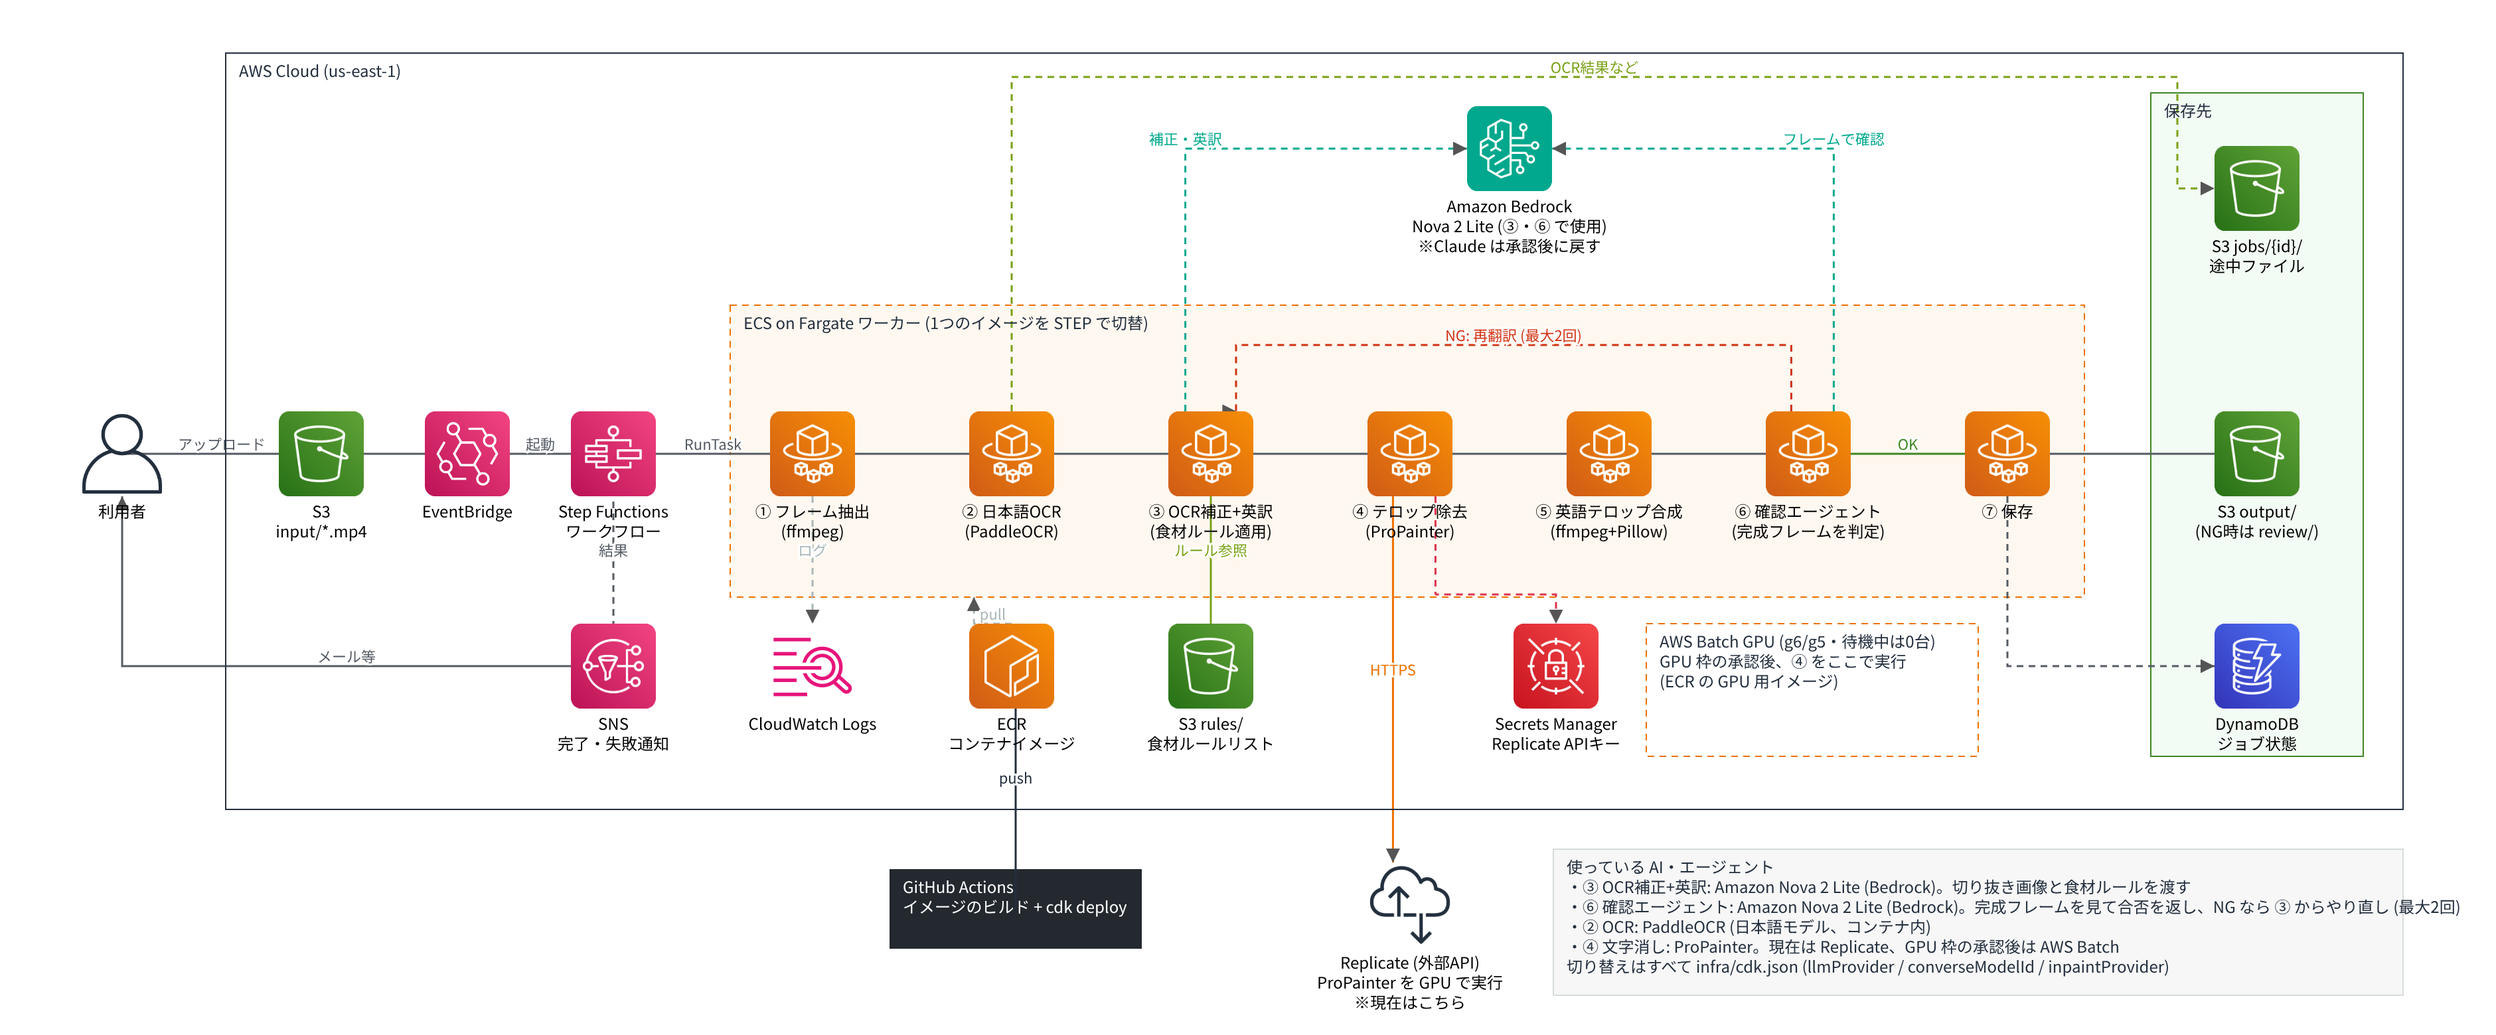
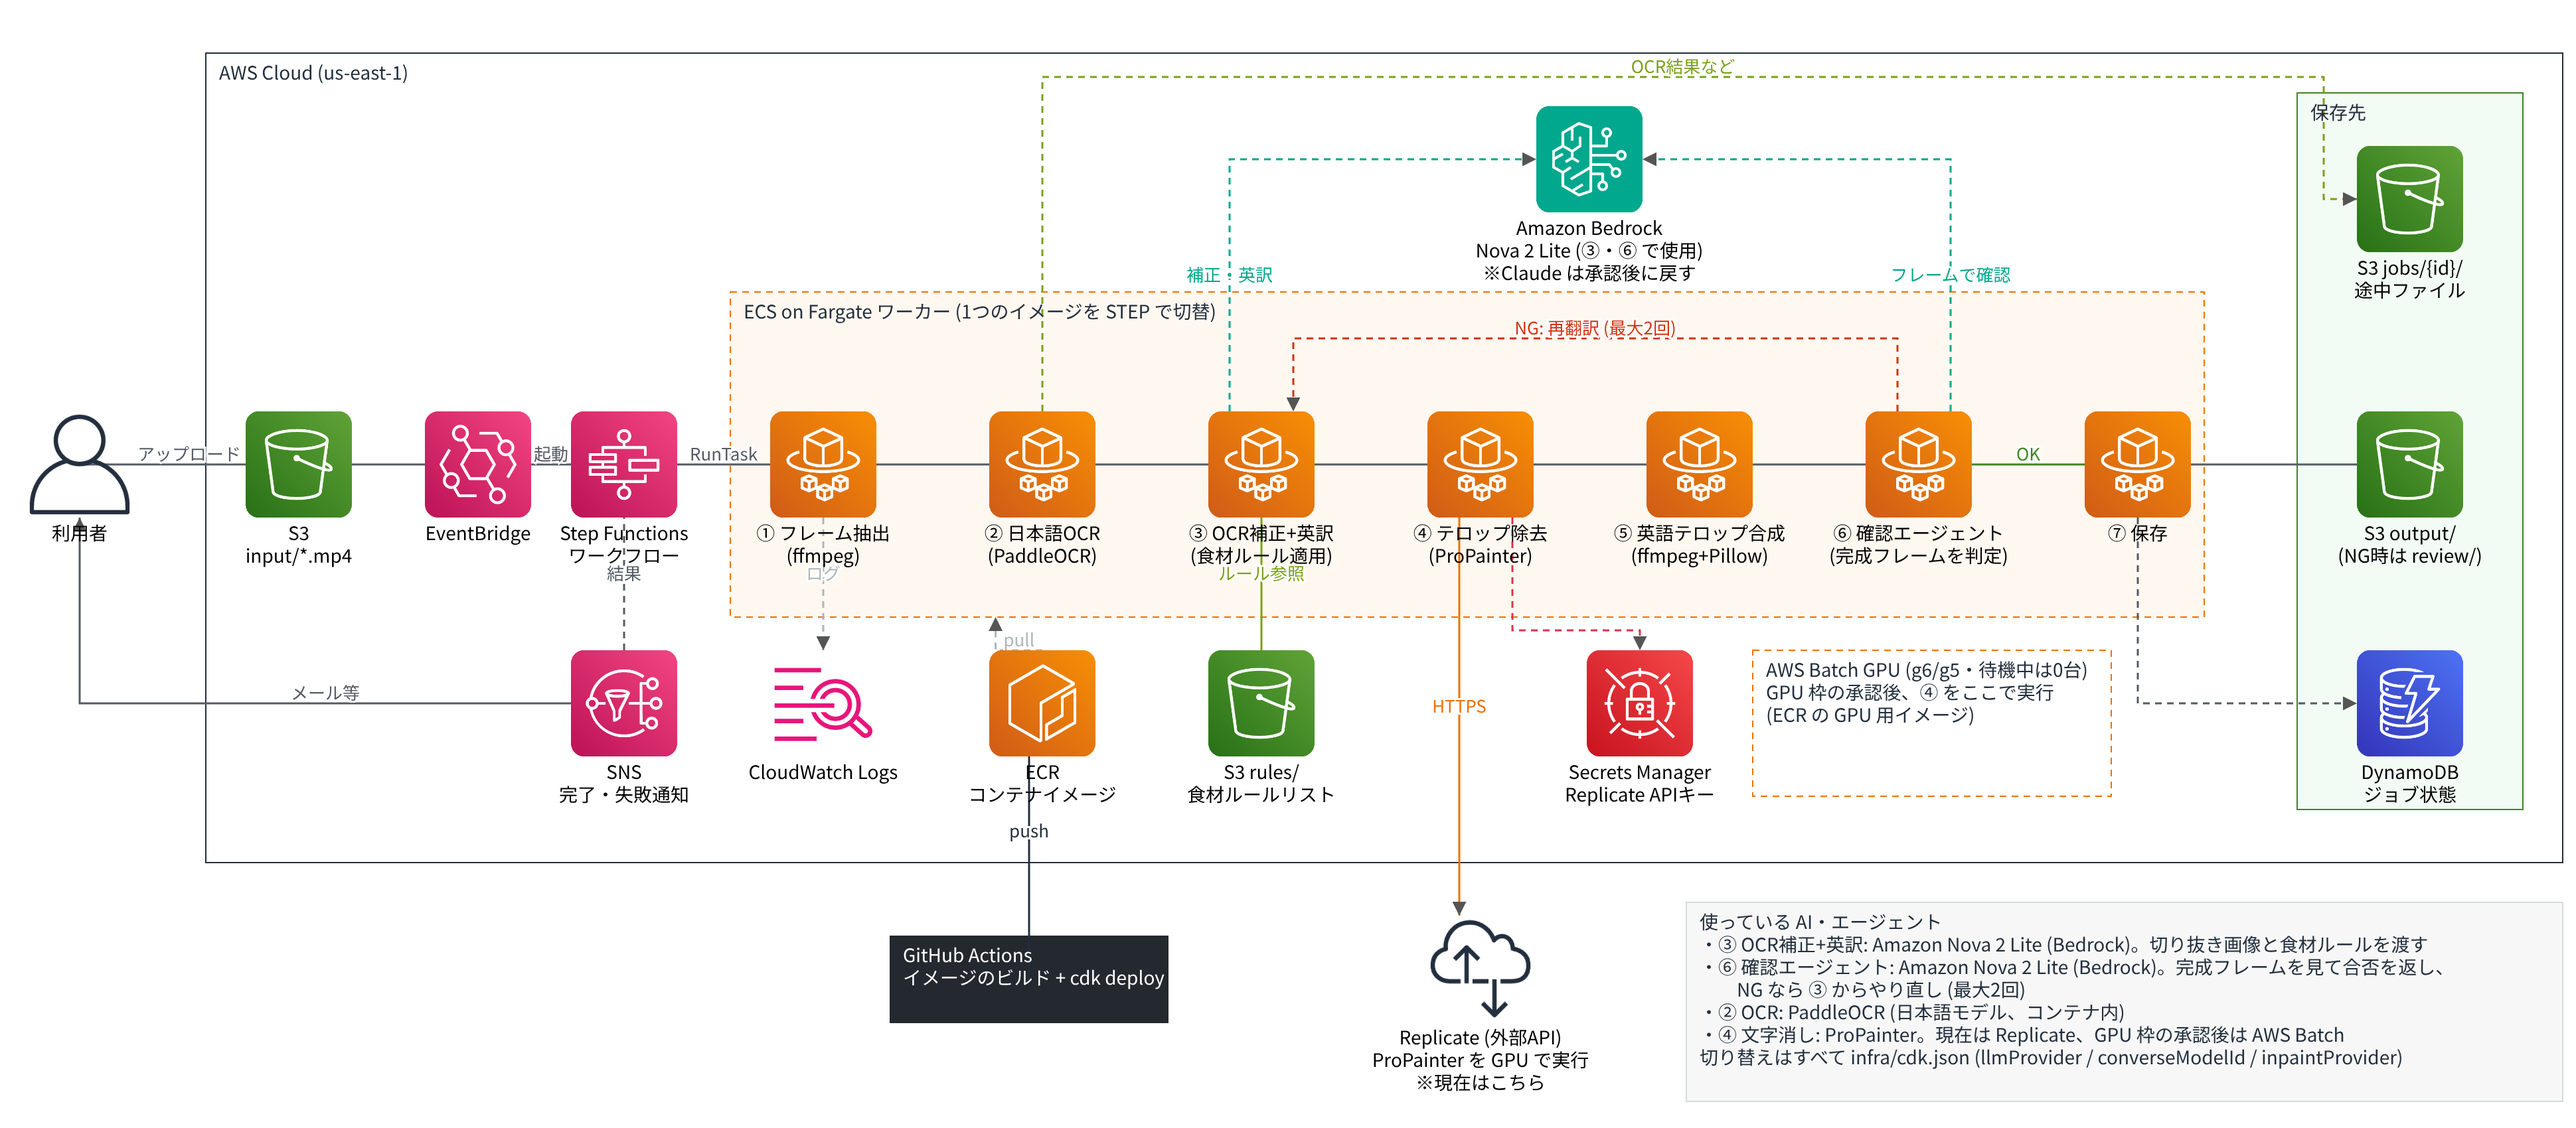
構成図のアイコンを 64→80px、文字を 12→14px に拡大
Claude-Session: https://claude.ai/code/session_01PP6npJEEqDkh7a12NZBn48

diff --git a/docs/architecture/make_drawio.py b/docs/architecture/make_drawio.py
@@ -8,6 +8,8 @@ from pathlib import Path
 from xml.sax.saxutils import escape
 
 OUT = Path(__file__).with_name("architecture.drawio")
+S = 80   # アイコンの大きさ
+FS = 14  # 文字の大きさ
 
 # AWS カテゴリ色 (アイコンの背景色)
 COMPUTE, STORAGE, INTEG, ML, SEC, DB, MGMT = "#ED7100", "#7AA116", "#E7157B", "#01A88D", "#DD344C", "#C925D1", "#E7157B"
@@ -26,12 +28,12 @@ def icon(label: str, res: str, color: str, x: int, y: int, parent: str = "1") ->
     i = nid()
     style = (
         "sketch=0;outlineConnect=0;fontColor=#232F3E;fillColor=" + color + ";strokeColor=#ffffff;"
-        "dashed=0;verticalLabelPosition=bottom;verticalAlign=top;align=center;html=1;fontSize=12;"
-        f"fontStyle=0;aspect=fixed;shape=mxgraph.aws4.resourceIcon;resIcon=mxgraph.aws4.{res};"
+        "dashed=0;verticalLabelPosition=bottom;verticalAlign=top;align=center;html=1;"
+        f"fontSize={FS};fontStyle=0;aspect=fixed;shape=mxgraph.aws4.resourceIcon;resIcon=mxgraph.aws4.{res};"
     )
     cells.append(
         f'<mxCell id="{i}" value="{escape(label)}" style="{style}" vertex="1" parent="{parent}">'
-        f'<mxGeometry x="{x}" y="{y}" width="64" height="64" as="geometry"/></mxCell>'
+        f'<mxGeometry x="{x}" y="{y}" width="{S}" height="{S}" as="geometry"/></mxCell>'
     )
     return i
 
@@ -40,12 +42,13 @@ def plain_icon(label: str, shape: str, x: int, y: int) -> str:
     i = nid()
     style = (
         "sketch=0;outlineConnect=0;fontColor=#232F3E;fillColor=#232F3E;strokeColor=none;dashed=0;"
-        "verticalLabelPosition=bottom;verticalAlign=top;align=center;html=1;fontSize=12;aspect=fixed;"
+        "verticalLabelPosition=bottom;verticalAlign=top;align=center;html=1;"
+        f"fontSize={FS};aspect=fixed;"
         f"shape=mxgraph.aws4.{shape};"
     )
     cells.append(
         f'<mxCell id="{i}" value="{escape(label)}" style="{style}" vertex="1" parent="1">'
-        f'<mxGeometry x="{x}" y="{y}" width="64" height="64" as="geometry"/></mxCell>'
+        f'<mxGeometry x="{x}" y="{y}" width="{S}" height="{S}" as="geometry"/></mxCell>'
     )
     return i
 
@@ -66,7 +69,7 @@ def edge(src: str, dst: str, label: str = "", color: str = "#545B64", dashed: bo
     i = nid()
     style = (
         f"edgeStyle=orthogonalEdgeStyle;rounded=1;html=1;endArrow=block;endFill=1;strokeColor={color};"
-        f"fontSize=11;fontColor={color};labelBackgroundColor=#FFFFFF;" + ("dashed=1;" if dashed else "")
+        f"fontSize={FS - 1};fontColor={color};labelBackgroundColor=#FFFFFF;" + ("dashed=1;" if dashed else "")
     )
     if exit:
         style += f"exitX={exit[0]};exitY={exit[1]};exitDx=0;exitDy=0;"
@@ -82,16 +85,16 @@ def edge(src: str, dst: str, label: str = "", color: str = "#545B64", dashed: bo
 
 
 AWS_CLOUD = (
-    "points=[];outlineConnect=0;gradientColor=none;html=1;whiteSpace=wrap;fontSize=12;fontStyle=0;"
+    "points=[];outlineConnect=0;gradientColor=none;html=1;whiteSpace=wrap;fontStyle=0;"
     "container=1;pointerEvents=0;collapsible=0;recursiveResize=0;shape=mxgraph.aws4.group;"
     "grIcon=mxgraph.aws4.group_aws_cloud_alt;strokeColor=#232F3E;fillColor=none;verticalAlign=top;"
-    "align=left;spacingLeft=30;fontColor=#232F3E;dashed=0;"
+    "align=left;spacingLeft=30;fontColor=#232F3E;dashed=0;fontSize=14;"
 )
-BOX = "rounded=1;arcSize=3;html=1;fillColor={f};strokeColor={s};verticalAlign=top;align=left;spacingLeft=10;fontSize=12;dashed={d};"
+BOX = "rounded=1;arcSize=3;html=1;fillColor={f};strokeColor={s};verticalAlign=top;align=left;spacingLeft=10;fontSize=14;dashed={d};"
 
 def note(text: str, x: int, y: int, w: int, h: int) -> str:
     i = nid()
-    style = "text;html=1;whiteSpace=wrap;fillColor=#F7F7F7;strokeColor=#D5DBDB;spacing=8;align=left;verticalAlign=top;fontSize=12;fontColor=#232F3E;"
+    style = "text;html=1;whiteSpace=wrap;fillColor=#F7F7F7;strokeColor=#D5DBDB;spacing=8;align=left;verticalAlign=top;fontSize=14;fontColor=#232F3E;"
     cells.append(
         f'<mxCell id="{i}" value="{escape(text)}" style="{style}" vertex="1" parent="1">'
         f'<mxGeometry x="{x}" y="{y}" width="{w}" height="{h}" as="geometry"/></mxCell>'
@@ -102,20 +105,20 @@ def note(text: str, x: int, y: int, w: int, h: int) -> str:
 # ---- レイアウト ----
 # 工程①〜⑦ を左から右へ 1 列に並べ、AI (Bedrock) と再翻訳ループは上、つなぎ先 (API・ルール・ログ) は下に置く。
 ROW = 230                      # 工程アイコンの y
-X = {n: 560 + 150 * (n - 1) for n in range(1, 8)}  # 工程 n のアイコンの x
+X = {n: 560 + 165 * (n - 1) for n in range(1, 8)}  # 工程 n のアイコンの x
 
-group("AWS Cloud (us-east-1)", 150, -40, 1640, 570, AWS_CLOUD)
-fargate = group("ECS on Fargate ワーカー (1つのイメージを STEP で切替)", 530, 150, 1020, 220, BOX.format(f="#FFF8F0", s="#ED7100", d=1))
-group("AWS Batch GPU (g6/g5・待機中は0台)\nGPU 枠の承認後、④ をここで実行\n(ECR の GPU 用イメージ)", 1220, 390, 250, 100,
+group("AWS Cloud (us-east-1)", 135, -40, 1775, 610, AWS_CLOUD)
+fargate = group("ECS on Fargate ワーカー (1つのイメージを STEP で切替)", 530, 140, 1110, 245, BOX.format(f="#FFF8F0", s="#ED7100", d=1))
+group("AWS Batch GPU (g6/g5・待機中は0台)\nGPU 枠の承認後、④ をここで実行\n(ECR の GPU 用イメージ)", 1300, 410, 270, 110,
       BOX.format(f="#FFFFFF", s="#ED7100", d=1))
-group("保存先", 1600, -10, 160, 500, BOX.format(f="#F2FBF4", s="#3F8624", d=0))
+group("保存先", 1710, -10, 170, 540, BOX.format(f="#F2FBF4", s="#3F8624", d=0))
 
 # ---- 入口 ----
-user = plain_icon("利用者", "user", 40, ROW)
-s3_in = icon("S3\ninput/*.mp4", "simple_storage_service", STORAGE, 190, ROW)
+user = plain_icon("利用者", "user", 0, ROW)
+s3_in = icon("S3\ninput/*.mp4", "simple_storage_service", STORAGE, 165, ROW)
 eb = icon("EventBridge", "eventbridge", INTEG, 300, ROW)
 sfn = icon("Step Functions\nワークフロー", "step_functions", INTEG, 410, ROW)
-sns = icon("SNS\n完了・失敗通知", "sns", INTEG, 410, 390)
+sns = icon("SNS\n完了・失敗通知", "sns", INTEG, 410, 410)
 
 # ---- 工程 ----
 s1 = icon("① フレーム抽出\n(ffmpeg)", "fargate", COMPUTE, X[1], ROW)
@@ -127,36 +130,36 @@ s6 = icon("⑥ 確認エージェント\n(完成フレームを判定)", "fargat
 s7 = icon("⑦ 保存", "fargate", COMPUTE, X[7], ROW)
 
 # ---- 上: AI ----
-bedrock = icon("Amazon Bedrock\nNova 2 Lite (③・⑥ で使用)\n※Claude は承認後に戻す", "bedrock", ML, 1085, 0)
+bedrock = icon("Amazon Bedrock\nNova 2 Lite (③・⑥ で使用)\n※Claude は承認後に戻す", "bedrock", ML, (X[3] + X[6]) // 2, 0)
 
 # ---- 下: つなぎ先 ----
-logs = icon("CloudWatch Logs", "cloudwatch_2", MGMT, 560, 390)
-ecr = icon("ECR\nコンテナイメージ", "ecr", COMPUTE, 710, 390)
-rules = icon("S3 rules/\n食材ルールリスト", "simple_storage_service", STORAGE, X[3], 390)
-secrets = icon("Secrets Manager\nReplicate APIキー", "secrets_manager", SEC, X[4] + 110, 390)
+logs = icon("CloudWatch Logs", "cloudwatch_2", MGMT, 560, 410)
+ecr = icon("ECR\nコンテナイメージ", "ecr", COMPUTE, 725, 410)
+rules = icon("S3 rules/\n食材ルールリスト", "simple_storage_service", STORAGE, X[3], 410)
+secrets = icon("Secrets Manager\nReplicate APIキー", "secrets_manager", SEC, X[4] + 120, 410)
 
 # ---- 右: 保存先 ----
-s3_jobs = icon("S3 jobs/{id}/\n途中ファイル", "simple_storage_service", STORAGE, 1648, 30)
-s3_out = icon("S3 output/\n(NG時は review/)", "simple_storage_service", STORAGE, 1648, ROW)
-ddb = icon("DynamoDB\nジョブ状態", "dynamodb", DB, 1648, 390)
+s3_jobs = icon("S3 jobs/{id}/\n途中ファイル", "simple_storage_service", STORAGE, 1755, 30)
+s3_out = icon("S3 output/\n(NG時は review/)", "simple_storage_service", STORAGE, 1755, ROW)
+ddb = icon("DynamoDB\nジョブ状態", "dynamodb", DB, 1755, 410)
 
 # ---- AWS の外 ----
-replicate = plain_icon("Replicate (外部API)\nProPainter を GPU で実行\n※現在はこちら", "internet_alt1", X[4], 570)
-gha = group("GitHub Actions\nイメージのビルド + cdk deploy", 650, 575, 190, 60,
-            "rounded=1;html=1;whiteSpace=wrap;fillColor=#24292F;strokeColor=none;fontColor=#FFFFFF;fontSize=12;align=center;verticalAlign=middle;")
+replicate = plain_icon("Replicate (外部API)\nProPainter を GPU で実行\n※現在はこちら", "internet_alt1", X[4], 610)
+gha = group("GitHub Actions\nイメージのビルド + cdk deploy", 650, 625, 210, 66,
+            "rounded=1;html=1;whiteSpace=wrap;fillColor=#24292F;strokeColor=none;fontColor=#FFFFFF;fontSize=14;align=center;verticalAlign=middle;")
 
 note(
     "<b>使っている AI・エージェント</b><br>"
     "・③ OCR補正+英訳: Amazon Nova 2 Lite (Bedrock)。切り抜き画像と食材ルールを渡す<br>"
-    "・⑥ 確認エージェント: Amazon Nova 2 Lite (Bedrock)。完成フレームを見て合否を返し、NG なら ③ からやり直し (最大2回)<br>"
+    "・⑥ 確認エージェント: Amazon Nova 2 Lite (Bedrock)。完成フレームを見て合否を返し、<br>　　NG なら ③ からやり直し (最大2回)<br>"
     "・② OCR: PaddleOCR (日本語モデル、コンテナ内)<br>"
     "・④ 文字消し: ProPainter。現在は Replicate、GPU 枠の承認後は AWS Batch<br>"
     "切り替えはすべて infra/cdk.json (llmProvider / converseModelId / inpaintProvider)",
-    1150, 560, 640, 110,
+    1250, 600, 660, 150,
 )
 
 # ---- 線 ----
-cy = ROW + 32  # アイコン中央の高さ
+cy = ROW + S // 2  # アイコン中央の高さ
 edge(user, s3_in, "アップロード")
 edge(s3_in, eb)
 edge(eb, sfn, "起動")
@@ -169,25 +172,25 @@ edge(s5, s6)
 edge(s6, s7, "OK", color="#3F8624")
 # 再翻訳ループ (上を通す)
 edge(s6, s3, "NG: 再翻訳 (最大2回)", color="#D13212", dashed=True,
-     exit=(0.3, 0), entry=(0.8, 0), points=[(X[6] + 19, 180), (X[3] + 51, 180)])
+     exit=(0.3, 0), entry=(0.8, 0), points=[(X[6] + S * 3 // 10, 175), (X[3] + S * 8 // 10, 175)])
 # AI 呼び出し (上の Bedrock へ)
 edge(s3, bedrock, "補正・英訳", color="#01A88D", dashed=True, exit=(0.2, 0), entry=(0, 0.5),
-     points=[(X[3] + 13, 32)])
+     points=[(X[3] + S // 5, S // 2)])
 edge(s6, bedrock, "フレームで確認", color="#01A88D", dashed=True, exit=(0.8, 0), entry=(1, 0.5),
-     points=[(X[6] + 51, 32)])
+     points=[(X[6] + S * 4 // 5, S // 2)])
 # 下のつなぎ先
 edge(rules, s3, "ルール参照", color="#7AA116")
 edge(s4, replicate, "HTTPS", color="#ED7100", exit=(0.3, 1), entry=(0.3, 0))
 edge(s4, secrets, color="#DD344C", dashed=True, exit=(0.8, 1), entry=(0.5, 0),
-     points=[(X[4] + 51, 368), (X[4] + 142, 368)])
+     points=[(X[4] + S * 4 // 5, 395), (X[4] + 120 + S // 2, 395)])
 # 保存
 edge(s7, s3_out)
-edge(s7, ddb, dashed=True, exit=(0.5, 1), entry=(0, 0.5), points=[(X[7] + 32, 422)])
+edge(s7, ddb, dashed=True, exit=(0.5, 1), entry=(0, 0.5), points=[(X[7] + S // 2, 410 + S // 2)])
 edge(s2, s3_jobs, "OCR結果など", dashed=True, color="#7AA116", exit=(0.5, 0), entry=(0, 0.5),
-     points=[(X[2] + 32, -22), (1620, -22), (1620, 62)])
+     points=[(X[2] + S // 2, -22), (1730, -22), (1730, 30 + S // 2)])
 # 通知・運用
 edge(sfn, sns, "結果", dashed=True)
-edge(sns, user, "メール等", exit=(0, 0.5), entry=(0.5, 1), points=[(72, 422)])
+edge(sns, user, "メール等", exit=(0, 0.5), entry=(0.5, 1), points=[(S // 2, 410 + S // 2)])
 edge(gha, ecr, "push", color="#232F3E")
 edge(ecr, fargate, "pull", color="#AAB7B8", dashed=True, exit=(0.5, 0), entry=(0.18, 1))
 edge(s1, logs, "ログ", color="#AAB7B8", dashed=True, exit=(0.5, 1), entry=(0.5, 0))
@@ -195,7 +198,7 @@ edge(s1, logs, "ログ", color="#AAB7B8", dashed=True, exit=(0.5, 1), entry=(0.5
 xml = (
     '<mxfile host="app.diagrams.net"><diagram id="vt" name="動画テロップ翻訳パイプライン">'
     '<mxGraphModel dx="1800" dy="800" grid="1" gridSize="10" guides="1" tooltips="1" connect="1" arrows="1" '
-    'fold="1" page="1" pageScale="1" pageWidth="1850" pageHeight="720" math="0" shadow="0"><root>'
+    'fold="1" page="1" pageScale="1" pageWidth="1950" pageHeight="780" math="0" shadow="0"><root>'
     '<mxCell id="0"/><mxCell id="1" parent="0"/>' + "".join(cells) + "</root></mxGraphModel></diagram></mxfile>"
 )
 OUT.write_text(xml.replace("\n", "&#xa;"), encoding="utf-8")
